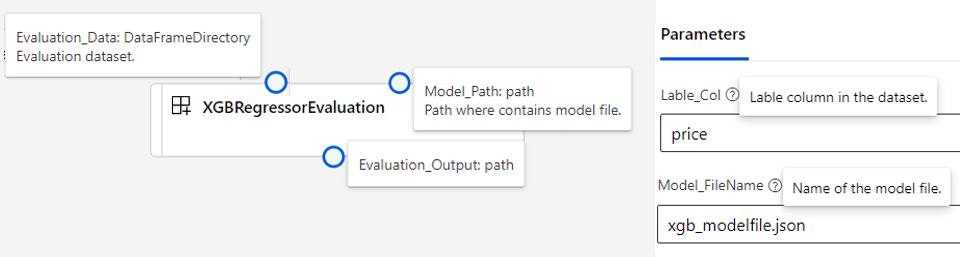
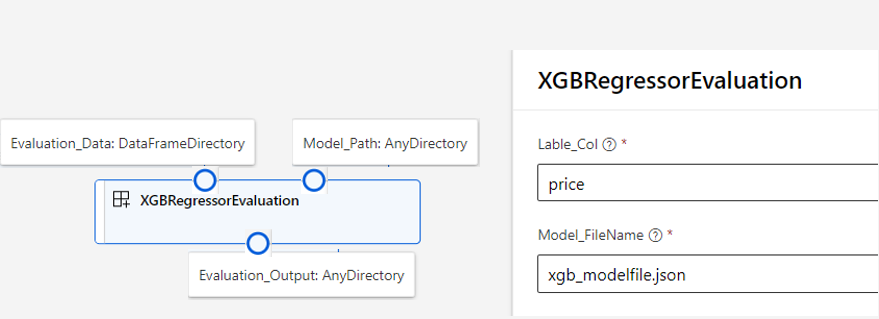
Update img and wording in tutorial 2

diff --git a/tutorial/tutorial2-create-your-component.md b/tutorial/tutorial2-create-your-component.md
@@ -8,7 +8,7 @@ In general, Azure Machine Learning component is constituted by 2 files:
 1. Component specification in Yaml format. [__XGBRegressorTraining__](../components/automobile-price-prediction/xgboost-regressor-training/XGBRegressorTraining.spec.yaml) is the Yaml file for our example . This file defines the component from several parts:
     - Metadata. e.g. __name, display_name, type, tags__.
     - Interface. __Inputs__ and __outputs__ of the component.
-    - Implementation. For CommandComponent, __Command__ is the 1-line command line which will be executed.
+    - Implementation. For CommandComponent, __Command__ is the 1-line command which will be executed.
     - Environment. __environment__ section defines the docker image and other dependencies.
 2. Relative Python code which includes your own logic. [__XGBRegressorTraining__](../components/automobile-price-prediction/xgboost-regressor-training/XGBRegressorTraining.py) is the python file for our example.
 
@@ -28,7 +28,8 @@ Useful tips about the Yaml spec:
 > - Port & Parameters between UI and Yaml Spec.
 > From component UI, there has 2 types of inputs/outputs: __Ports__ and __Parameters__.
 > ![create-component](./img/ports-vs-parameters.PNG)
-> When you use _DataFrameDirectory_ or _AnyDirectory_ as an input/output type, it will be shown as __port__. When you use basic type, like _integer_, _float_ or _string_, it will be shown in __parameters__ right panel. 
+> 
+>   When you use _DataFrameDirectory_ or _AnyDirectory_ as an input/output type, it will be shown as __port__. When you use basic type, like _integer_, _float_ or _string_, it will be shown in __parameters__ right panel. 
 
 You could refer to '_[component spec definition](../component-spec-definition.md)_' for more details about the Yaml Spec settings and examples.
 
@@ -56,8 +57,8 @@ print("RMSE: %f" % (rmse))
 ```
 
 To upgrade these pseudo code to fit XGBRegressorEvaluation defination, we need 2 steps: 
-1. Parse the inputs from args.
-2. Prepare your data for prediction and evaluation.
+1. Parse the inputs from args. Generally, use 'argparse.ArgumentParser' and 'add_argument' to get all input values from command.
+2. Prepare your data for prediction and evaluation. Leverage 'load_data_frame_from_directory' to convert input 'DataFrameDirectory' data to Pandas DataFrame.
 
 You could try to follow the [XGBRegressorTraining](../components/automobile-price-prediction/xgboost-regressor-training/XGBRegressorTraining.py) py code for an example. We also prepared a finalizaed [__XGBRegressorEvaluation py code__](../components/automobile-price-prediction/xgboost-regressor-evaluation/XGBRegressorEvaluation.py) for your reference.
 
@@ -66,7 +67,7 @@ When the Yaml Spec and Py code are ready, you could either edit them from exampl
 
 ![create-component-from-localfiles](./img/create-component-from-localfiles.PNG)
 
-Then click 'Next' and 'Create' for finish the creation of XGBRegressorEvaluation component. You will see the new component is listed in Module page.
+Then click 'Next' and 'Create' for finish the creation of XGBRegressorEvaluation component. You will see the new component is listed in Modules page.
 
 ![component-description](./img/component-description.PNG)
 
@@ -80,7 +81,7 @@ Drag this component to the canvas and link it to precedent components and define
  - The second output of __'Split Data'__ component is the data input as evaluation data set.
  - __'XGBRegressorTraining'__ output the model directory. This is the input model directory for XGBRegressorEvaluation component.
  - Put __'price'__ as the value of __'Lable_Col'__.
- - Put __'xgb_modelfile.json'__ as the value of __'Model_FileName'__. 
+ - Put __'xgb_modelfile.json'__ as the value of __'Model_FileName'__. This should be aligned with XGBRegressorTraining model file defination.
 
 ![component-description](./img/component-tutorial2-pipeline.png)
 
